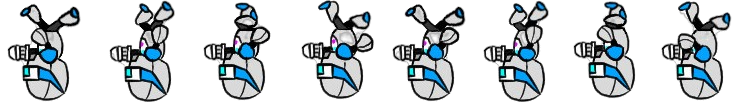
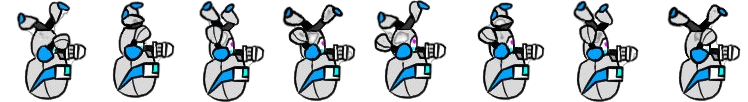
fix: terrain

diff --git a/lib/person.dart b/lib/person.dart
@@ -14,7 +14,7 @@ class Person extends SpriteAnimationComponent
   double vx = 0; //m/s
   double vy = 0; //m/s
   double ax = 0;
-  double ay = 300;
+  double ay = 400;
   bool inverterVelocidade = false;
   bool gravity = true;
   final GameController gameController = Get.put(GameController());
@@ -33,17 +33,17 @@ class Person extends SpriteAnimationComponent
     print("hitbox person adicionado");
 
     position = gameRef.size / 2;
-    size = Vector2(100.0, 70.0);
+    size = Vector2(70.0, 70.0);
     anchor = Anchor.center;
 
     debugMode = true;
     idleSpriteSheet = SpriteSheet(
       image: await gameRef.images.load('spacerun2.png'),
-      srcSize: Vector2(93.5, 102.0),
+      srcSize: Vector2(93, 100.0),
     );
     invertedIdleSpriteSheet = SpriteSheet(
       image: await gameRef.images.load('invertedrun2.png'),
-      srcSize: Vector2(93.5, 100.0),
+      srcSize: Vector2(93, 100.0),
     );
 
     idleAnimation = idleSpriteSheet.createAnimation(
@@ -64,13 +64,13 @@ class Person extends SpriteAnimationComponent
 
       //Se o personagem está a baixo do chão, mudar o posição do personagem para logo a baixo do chão
       if (points.first.y > other.position.y) {
-        position.y = (other.position.y + other.size.y / 2 + size.y / 2) + 2;
+        position.y = (other.position.y + other.size.y / 2 + size.y / 2);
       }
 
       //Se o personagem está a cima do chão, mudar o posição do personagem para logo a cima do chão
 
       if (points.first.y < other.position.y) {
-        position.y = (other.position.y - other.size.y / 2 - size.y / 2) - 2;
+        position.y = (other.position.y - other.size.y / 2 - size.y / 2);
       }
 
       // Se o personagem colidir com o chão pela esquerda a gravidade continua sendo true
@@ -92,6 +92,13 @@ class Person extends SpriteAnimationComponent
 
   void jump() {
     if (!gravity) {
+      if (inverterVelocidade) {
+        position.y += 10;
+      } else {
+        position.y -= 10;
+      }
+      super.update(0.11);
+
       inverterVelocidade = !inverterVelocidade;
 
       if (animation == idleAnimation) {

diff --git a/lib/game.dart b/lib/game.dart
@@ -85,7 +85,7 @@ class GravityGuyGame extends FlameGame
     // Atualiza a variavel time com tempo decorrido
     time += dt;
     // print(time);
-    if (time > 1) {
+    if (time > 1.2) {
       randomizePlatforms();
       time = 0;
     }
@@ -105,7 +105,7 @@ class GravityGuyGame extends FlameGame
   }
 
   Future<void> randomizePlatforms() async {
-    var n = Random().nextInt(5) + 3;
+    var n = Random().nextInt(3) + 5;
     var currentY = randomizeYCoord();
     var currentX = size.x;
 
@@ -114,7 +114,7 @@ class GravityGuyGame extends FlameGame
     if (initialPlataform) {
       currentX = 100.0;
       currentY = 500.0;
-      n = 7;
+      n = 8;
       initialPlataform = false;
     }
 
@@ -137,13 +137,13 @@ class GravityGuyGame extends FlameGame
 
     changePosition = !changePosition;
 
-    //Se changedPosition for true, o y será gerado entre o topo da tela e o meio da tela
-    //Se changedPosition for false, o y será gerado entre o meio da tela e o fim da tela
+    //Se changedPosition for true, o y será gerado entre o topo da tela e o primeiro terço da tela
+    //Se changedPosition for false, o y será gerado entre o meio da tela e o ultimo terço da tela
 
     if (changePosition) {
-      return Random().nextDouble() * (size / 2);
+      return Random().nextDouble() * (size / 3);
     } else {
-      return Random().nextDouble() * (size / 2) + (size / 2);
+      return Random().nextDouble() * (size / 3) + (size / 3) + (size / 3);
     }
   }
 }
